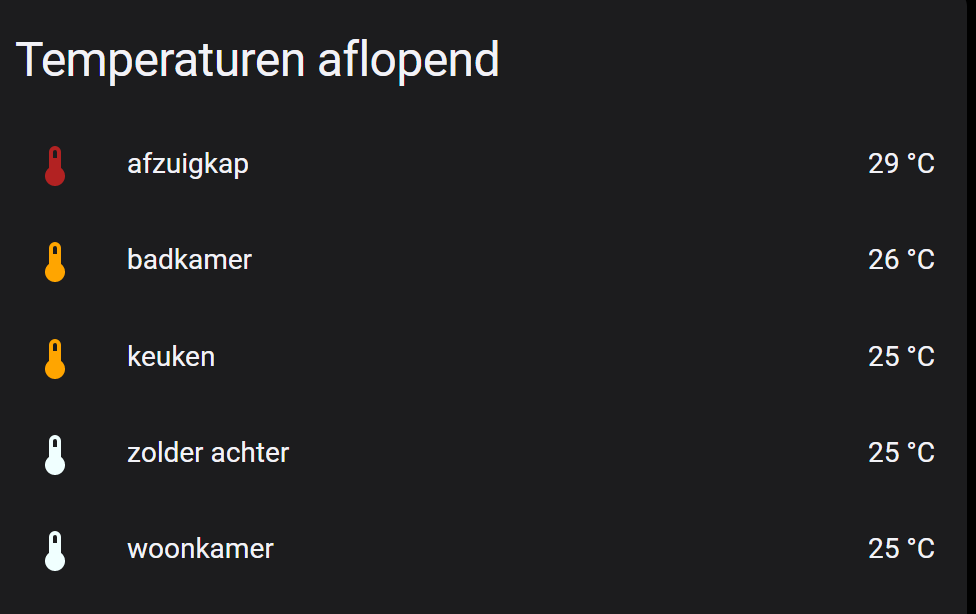
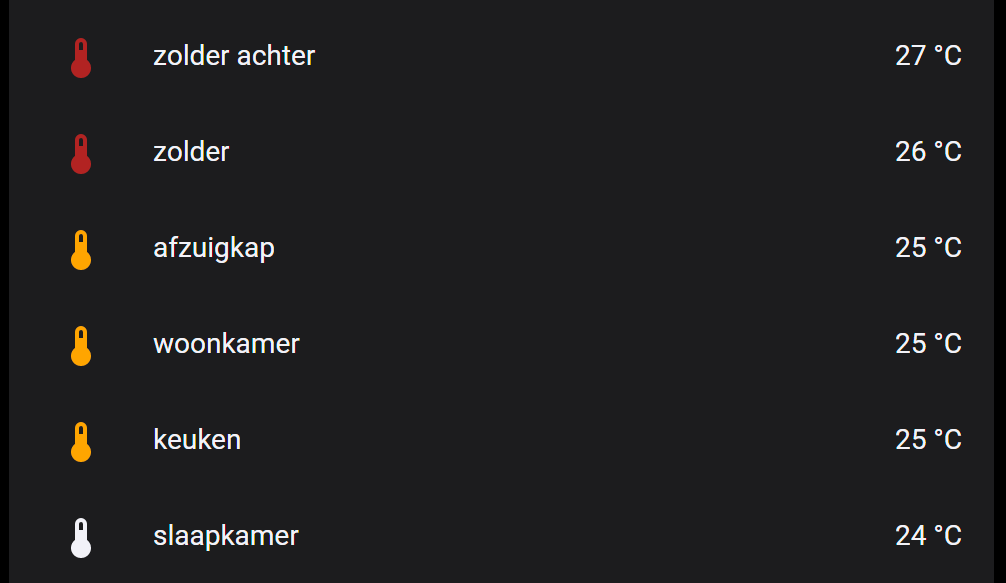
Add Home Assistant auto entities, examples and formatting page

diff --git a/homeassistant/homeassistant_dashboard_examples.md b/homeassistant/homeassistant_dashboard_examples.md
@@ -1,0 +1,79 @@
+---
+title: "Home Assistant dashboard: Examples"
+category: Home Assistant
+tags: Home Assistant, dashboard, lovelace
+---
+# Home Assistant dashboard: Examples
+
+<a href="index"><img src="images/home_assistant_logo.png" style="float: right;" alt="Home Assistant logo" height="100px"></a>
+
+Here you find some random Home Assistant (lovelace) dashboard examples which you can easily add to your own dashboards.
+
+<br>
+<br>
+
+---
+## Table of Contents
+<!-- TOC -->
+* [News headline (nu.nl)](#news-headline-nunl)
+* [Create a new custom sensor: chair occupancy](#create-a-new-custom-sensor-chair-occupancy)
+<!-- TOC -->
+
+---
+
+## News headline (nu.nl)
+Show the most important news headline.<br>
+With clickable arrows to open the news site.
+
+![News nu.nl](images/news_headline.png)
+
+Get every 15 minutes the latest news headline from the new site nu.nl.
+```yaml
+# Sourcecode by vdbrink.github.io
+# configuration.yaml
+- platform: scrape
+  resource: https://www.nu.nl
+  select: ".title.fluid:first-of-type"
+  name: "nu.nl headline"
+  scan_interval: 900
+```
+Use a Markdown card to present the news.
+```yaml
+{% raw %}
+# Sourcecode by vdbrink.github.io
+# Dashboard
+ - type: markdown
+        content: |
+          {{ states('sensor.nu_nl_headline') }} [>>](http://nu.nl)
+{% endraw %}
+```
+
+---
+## Create a new custom sensor: chair occupancy
+
+By default, the contact status is inverted as preferred.
+With this addition to configuration.yaml you can create a new sensor which show the correct status in your dashboard.
+```yaml
+{% raw %}
+# Sourcecode by vdbrink.github.io
+# configuration.yaml
+binary_sensor:
+  - platform: template
+    sensors:
+      chair:
+        friendly_name: "chair"
+        value_template: >-
+          {% if is_state('binary_sensor.contact1_contact', 'off') %}
+             on
+          {% else %}
+             off
+          {% endif %}
+
+homeassistant:
+  customize: 
+    binary_sensor.chair:
+      icon: mdi:chair-rolling
+{% endraw %}
+```
+---
+[<< Back to the Home Assistant index page](index)

diff --git a/homeassistant/homeassistant_dashboard_formatting.md b/homeassistant/homeassistant_dashboard_formatting.md
@@ -1,0 +1,45 @@
+---
+title: "Home Assistant dashboard: Formatting"
+category: Home Assistant
+tags: Home Assistant, dashboard, lovelace, formatting
+---
+# Home Assistant dashboard: Formatting
+
+<a href="index"><img src="images/home_assistant_logo.png" style="float: right;" alt="Home Assistant logo" height="100px"></a>
+
+Here you find Home Assistant (lovelace) dashboard examples which you can easily add to your own dashboards.
+<br/><br/><br/>
+
+---
+## Table of Contents
+<!-- TOC -->
+* [Rounded temperature sensors](#rounded-temperature-sensors)
+<!-- TOC -->
+
+---
+
+## Rounded temperature sensors
+
+What is the added value of one decimal for a temperature value? Especially when you show multiple temperatures close to each other this is only distracting. To create a clean presentation you can show the rounded value.
+
+Create a new sensor only with the rounded temperature to a integer value.
+Here we create a new sensor calls `sensor.temp1_temperature_rounded`
+
+The value 24.3 will round to 24 and 24.6 will round to 25.
+
+![Rounded temperature value](images/rounded_value.png)
+```yaml
+{% raw %}
+# Sourcecode by vdbrink.github.io
+# configuration.yaml
+- platform: template
+  sensors:
+    temp1_temperature_rounded:
+      friendly_name: "woonkamer"
+      unit_of_measurement: "°C"
+      value_template: "{{ states('sensor.temp_woonkamer') | round(0) }}"
+{% endraw %}
+```
+
+---
+[<< Back to the Home Assistant index page](index)

diff --git a/homeassistant/homeassistant_dashboard_date_time.md b/homeassistant/homeassistant_dashboard_date_time.md
@@ -1,12 +1,12 @@
 ---
-title: Home Assistant dashboard: Date & Time
+title: "Home Assistant dashboard: Date & Time"
 date: 2022-06-29
 category: Home Assistant
-tags: "Home Assistant", dashboard, lovelace, date, time
+tags: Home Assistant, dashboard, lovelace, date, time
 ---
 # Home Assistant dashboard: Date & Time
 
-<img src="images/home_assistant_logo.png" style="float: right;" alt="Home Assistant logo" height="100px">
+<a href="index"><img src="images/home_assistant_logo.png" style="float: right;" alt="Home Assistant logo" height="100px"></a>
 
 Here you find Home Assistant (lovelace) dashboard examples related to date and time which you can easily add to your own dashboards.
 
@@ -44,12 +44,15 @@ Here you find Home Assistant (lovelace) dashboard examples related to date and t
       icon_template: mdi:calendar-clock
 {% endraw %}
 ```
+
 ```yaml
+{% raw %}
 # Sourcecode by vdbrink.github.io
 # Dashboard
 - type: entity
   entity: sensor.time_formatted
   name: ' '
+{% endraw %}
 ```
 
 ---
@@ -72,11 +75,13 @@ Here you find Home Assistant (lovelace) dashboard examples related to date and t
 {% endraw %}
 ```
 ```yaml
+{% raw %}
 # Sourcecode by vdbrink.github.io
 # Dashboard
 - type: entity
   entity: sensor.time_formatted
   name: ' '
+{% endraw %}
 ```
 
 ---

diff --git a/homeassistant/homeassistant_dashboard_card_auto-entities.md b/homeassistant/homeassistant_dashboard_card_auto-entities.md
@@ -23,6 +23,8 @@ The git repo: https://github.com/thomasloven/lovelace-auto-entities
 
 ## Temperatures rounded, sorted and colored
 
+Show all temperature sensors in order of their temperature from high to low. And show the rounded temperature to a real number and for temperature higher than ideal give them an orange or red color. Blue icons when the temperature is below 10 degrees.
+
 <img src="images_autoentities/temp_round_sorted_color-autoentities.png" alt="Temperatures rounded, sorted and colored" width="400">
 
 ```yaml
@@ -44,11 +46,12 @@ filter:
         style: |
           :host {
             --paper-item-icon-color:
-             {% set level = states(config.entity)|float %}
-             {% if level > 26 %} firebrick
-             {% elif level > 25 %} orange
-             {% else %} white
-             {% endif %}
+             {% set level = states(config.entity)|round(0) %}
+             {% if level >= 26 %} firebrick
+             {% elif level >= 25 %} orange
+             {% elif level < 10 %} blue
+             {% else %} var(--primary-text-color)
+             {% endif %} 
              ;
            }
 show_empty: false

diff --git a/homeassistant/index.md b/homeassistant/index.md
@@ -20,10 +20,11 @@ I created dashboards with:
 
 * Floor plans
 * Column layout
-* [Date & Time](homeassistant_dashboard_date_time)
-* Different examples (The latest news)
+* [Formatting](homeassistant_dashboard_formatting) (Rounded temperature sensors)
+* [Date & Time](homeassistant_dashboard_date_time) (Days countdown)
+* [Different examples](homeassistant_dashboard_examples) (The latest news)
 * Weather
-  * [External sites](homeassistant_dashboard_weather) (Thunderstorm, moon phase)
+  * [External sites](homeassistant_dashboard_weather) (Thunderstorm)
   * [The Netherlands](homeassistant_dashboard_weather_nl) (Buienradar, weeralarm, pollen)
 * [Control my ventilation system](../esphome/orcon_mechanic_ventilation)
 * Device and room status overviews
@@ -32,6 +33,7 @@ I created dashboards with:
 * Grafana graphs
 * Camera streams
 * HACS add-ons
+  * [auto entities](homeassistant_dashboard_card_auto-entities) 
 
 ---
 ## Sponsor me

diff --git a/homeassistant/homeassistant_dashboard_weather_nl.md b/homeassistant/homeassistant_dashboard_weather_nl.md
@@ -1,11 +1,11 @@
 ---
-title: Home Assistant dashboard: Weather in The Netherlands
+title: "Home Assistant dashboard: Weather in The Netherlands"
 category: Home Assistant
-tags: "Home Assistant", dashboard, lovelace, weather, the Netherlands, nederland, nl, Dutch, buienalarm, buienradar, knmi, weeralarm
+tags: Home Assistant, dashboard, lovelace, weather, the Netherlands, nederland, nl, Dutch, buienalarm, buienradar, knmi, weeralarm
 ---
 # Home Assistant dashboard: Weather in The Netherlands
 
-<img src="images/home_assistant_logo.png" style="float: right;" alt="Home Assistant logo" height="100px">
+<a href="index"><img src="images/home_assistant_logo.png" style="float: right;" alt="Home Assistant logo" height="100px"></a>
 
 Here you can find dashboard related to the weather in the Netherlands.
 

diff --git a/homeassistant/homeassistant_dashboard_weather.md b/homeassistant/homeassistant_dashboard_weather.md
@@ -1,11 +1,11 @@
 ---
-title: Home Assistant dashboard: Weather
+title: "Home Assistant dashboard: Weather"
 category: Home Assistant
-tags: "Home Assistant", dashboard, lovelace, weather, thunder, lightning
+tags: Home Assistant, dashboard, lovelace, weather, thunder, lightning
 ---
 # Home Assistant dashboard: Weather
 
-<img src="images/home_assistant_logo.png" style="float: right;" alt="Home Assistant logo" height="100px">
+<a href="index"><img src="images/home_assistant_logo.png" style="float: right;" alt="Home Assistant logo" height="100px"></a>
 
 Here you can find dashboard for weather examples for your own dashboard.
 <br/>
